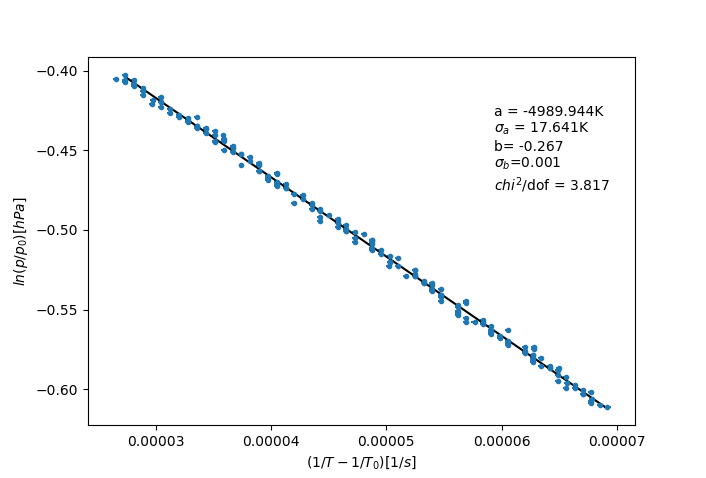
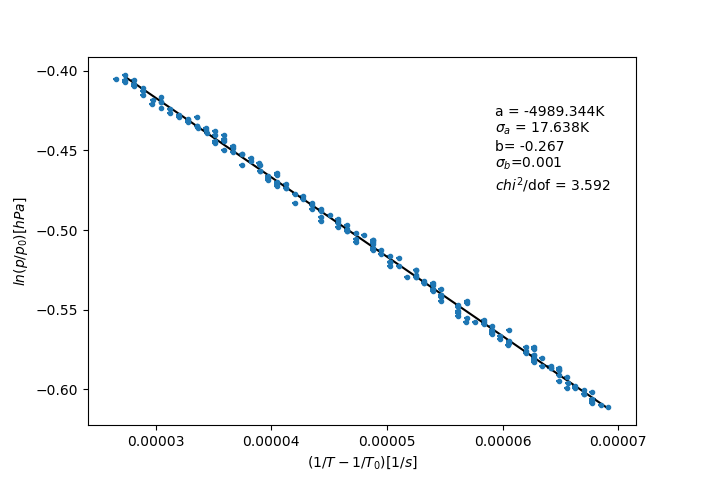
Digitalisierungsfehler beachtet

diff --git a/Thermodynamik/Python/Auswertung_HauptmessungB.py b/Thermodynamik/Python/Auswertung_HauptmessungB.py
@@ -29,7 +29,7 @@ temperatur = data[50:,2]
 R = 8.314
                  
 # Rauschwerte -> Fehler auf Einzelwerte
-sigma_p = 0.37
+sigma_p = np.sqrt((0.75/np.sqrt(12))**2+0.37**2) # mit Digitlisierungsfehler
 sigma_t = 0.035
 
 

diff --git a/Thermodynamik/Python/Auswertung_HauptmessungA.py b/Thermodynamik/Python/Auswertung_HauptmessungA.py
@@ -30,7 +30,7 @@ temperatur = data[:,3] + 273.15
 R = 8.314
                  
 # Rauschwerte -> Fehler auf Einzelwerte
-sigma_p = 0.37
+sigma_p = np.sqrt( (0.75/np.sqrt(12))**2+0.37**2)
 sigma_t = 0.035
 
 
